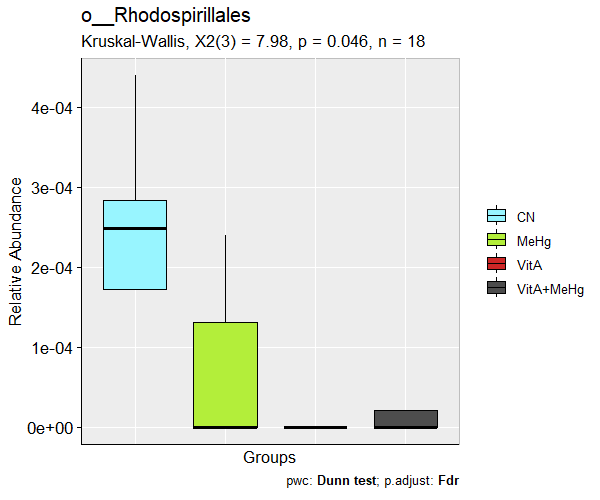
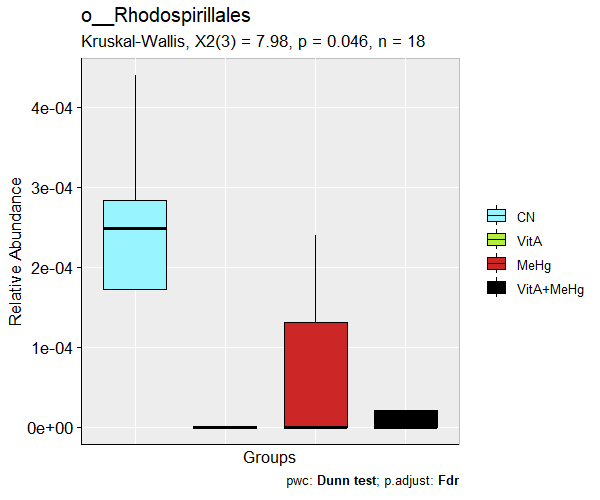
Correct Figure S3 treatment order

diff --git a/supplementary_figures/README.md b/supplementary_figures/README.md
@@ -80,9 +80,12 @@ join abundance columns to the relevant manifest, honor
 taxon is tested with a four-group Kruskal-Wallis test followed by all six Dunn
 tests with Benjamini-Hochberg FDR adjustment; only adjusted comparisons at or
 below 0.05 are drawn. No parametric test or normality-based method selection is
-performed. Figure S3 preserves the historical PND21 panel order and positional
-colors (`CN`, `MeHg`, `VitA`, `VitA+MeHg`) for visual fidelity; Figures S4 and
-S5 use the canonical `CN`, `VitA`, `MeHg`, `VitA+MeHg` order.
+performed. Every workflow is required to use the common treatment order `CN`,
+`VitA`, `MeHg`, `VitA+MeHg`. Figure S3 deliberately corrects the erroneous
+character-derived order in the historical PND21 exports and maps those groups
+to blue (`#98F5FF`), green (`#B3EE3A`), red (`#CD2626`), and black (`#000000`),
+respectively. Its retained composite documents the historical assembly and is
+not the ordering reference for the corrected generated panels.
 
 Generate and validate the panels from the repository root:
 
@@ -98,10 +101,12 @@ Rscript supplementary_figures/Figure_S5/validate_figure_s5_ao.R
 The validators independently reproduce the Kruskal-Wallis statistics and
 check the exact omnibus p-values, all Dunn comparison signatures, adjusted
 significance counts, source checksums and schemas, cohort membership and
-treatment counts, output names, sex-specific directories and dimensions,
-committed PNGs, and retained composite dimensions. All 72 archived TIFF panels under
-`Alberto/images/Abundancias/NONparametric/` were also compared with the
-generated PNGs during migration. The retained composites are
+treatment counts, the common treatment order, output names, sex-specific
+directories and dimensions, committed PNGs, and retained composite dimensions.
+All 72 archived TIFF panels under `Alberto/images/Abundancias/NONparametric/`
+were inspected during migration; the corrected S3 PNGs intentionally differ
+from their historical exports in treatment order and color assignment. The
+retained composites are
 [`Figure S3`](Figure_S3/output/Figure_S3_FinalFigure.png),
 [`Figure S4`](Figure_S4/output/Figure_S4_FinalFigure.png), and
 [`Figure S5`](Figure_S5/output/Figure_S5_FinalFigure.png).

diff --git a/README.md b/README.md
@@ -25,6 +25,7 @@ Sex, generation, treatment, sequencing batch, analysis inclusion, and data-depos
 This repository is under active reproducibility curation.
 
 - Figure 3 panels A-K, Figure 4 panels A-D, Figure 5 panel D, Figure 6 panels A-C, Figure S1 panels A-H, all 75 taxon-abundance panels in Figures S2-S5, panels E of Figures 7 and 8, and all ten KO z-score heatmaps in Figures S8-S16 have portable, tested workflows. The 19 KO-level source tables shared by Figures 7, 8, and S8-S16 also have a portable, regression-tested generator. Their KEGG pathway panels remain retained manual exports prepared with the generated z-score tables as the coloring reference; supplied final composites are retained for visual validation.
+- Figure S3 generated panels correct the erroneous treatment ordering in the historical PND21 exports. Their authoritative order is `CN`, `VitA`, `MeHg`, `VitA+MeHg` with blue, green, red, and black fills; the historical composite is retained only for provenance.
 - Figure S6 is a retained manual, qualitative synthesis made by visually reviewing Figure 5 and Figures S2-S5. Its interpretive construction and reproducibility boundary are documented in the [`supplementary-figure guide`](supplementary_figures/README.md#figure-s6); it is not presented as the output of a statistical or scripted workflow.
 - The PICRUSt2 terminal workflow, exact batch-specific inputs, analysis-ready outputs, and weighted-NSTI quality metrics have been harmonized and validated against the supplied pipeline products. Figure 6 uses only the canonical KO predictions and canonical sample manifest.
 - Additional main and supplementary figure workflows will be migrated and validated progressively.

diff --git a/scripts/legacy_scripts/README.md b/scripts/legacy_scripts/README.md
@@ -45,7 +45,12 @@ generators share the validated
 renderer and preserve the legacy four-group Kruskal-Wallis plus six-pair Dunn
 test with FDR adjustment. They recreate all 72 individual source panels as PNG
 files without sourcing the legacy script or assembling the Photoshop
-composites. Figure S3-S5 female panels are written to `output/females/` and
+composites. The historical PND21 block exposed Figure S3 to the incorrect
+character-derived order `CN`, `MeHg`, `VitA`, `VitA+MeHg`. The portable Figure
+S3 workflow intentionally corrects every panel to `CN`, `VitA`, `MeHg`,
+`VitA+MeHg`, assigns blue, green, red, and black fills, and treats the archived
+PND21 exports and composite as provenance rather than as an ordering target.
+Figure S3-S5 female panels are written to `output/females/` and
 male panels to `output/male/`, while each final composite remains at its output
 root. Their paired validators lock source checksums, cohorts, taxa, exact
 nonparametric results, significant comparison signatures, filenames,
